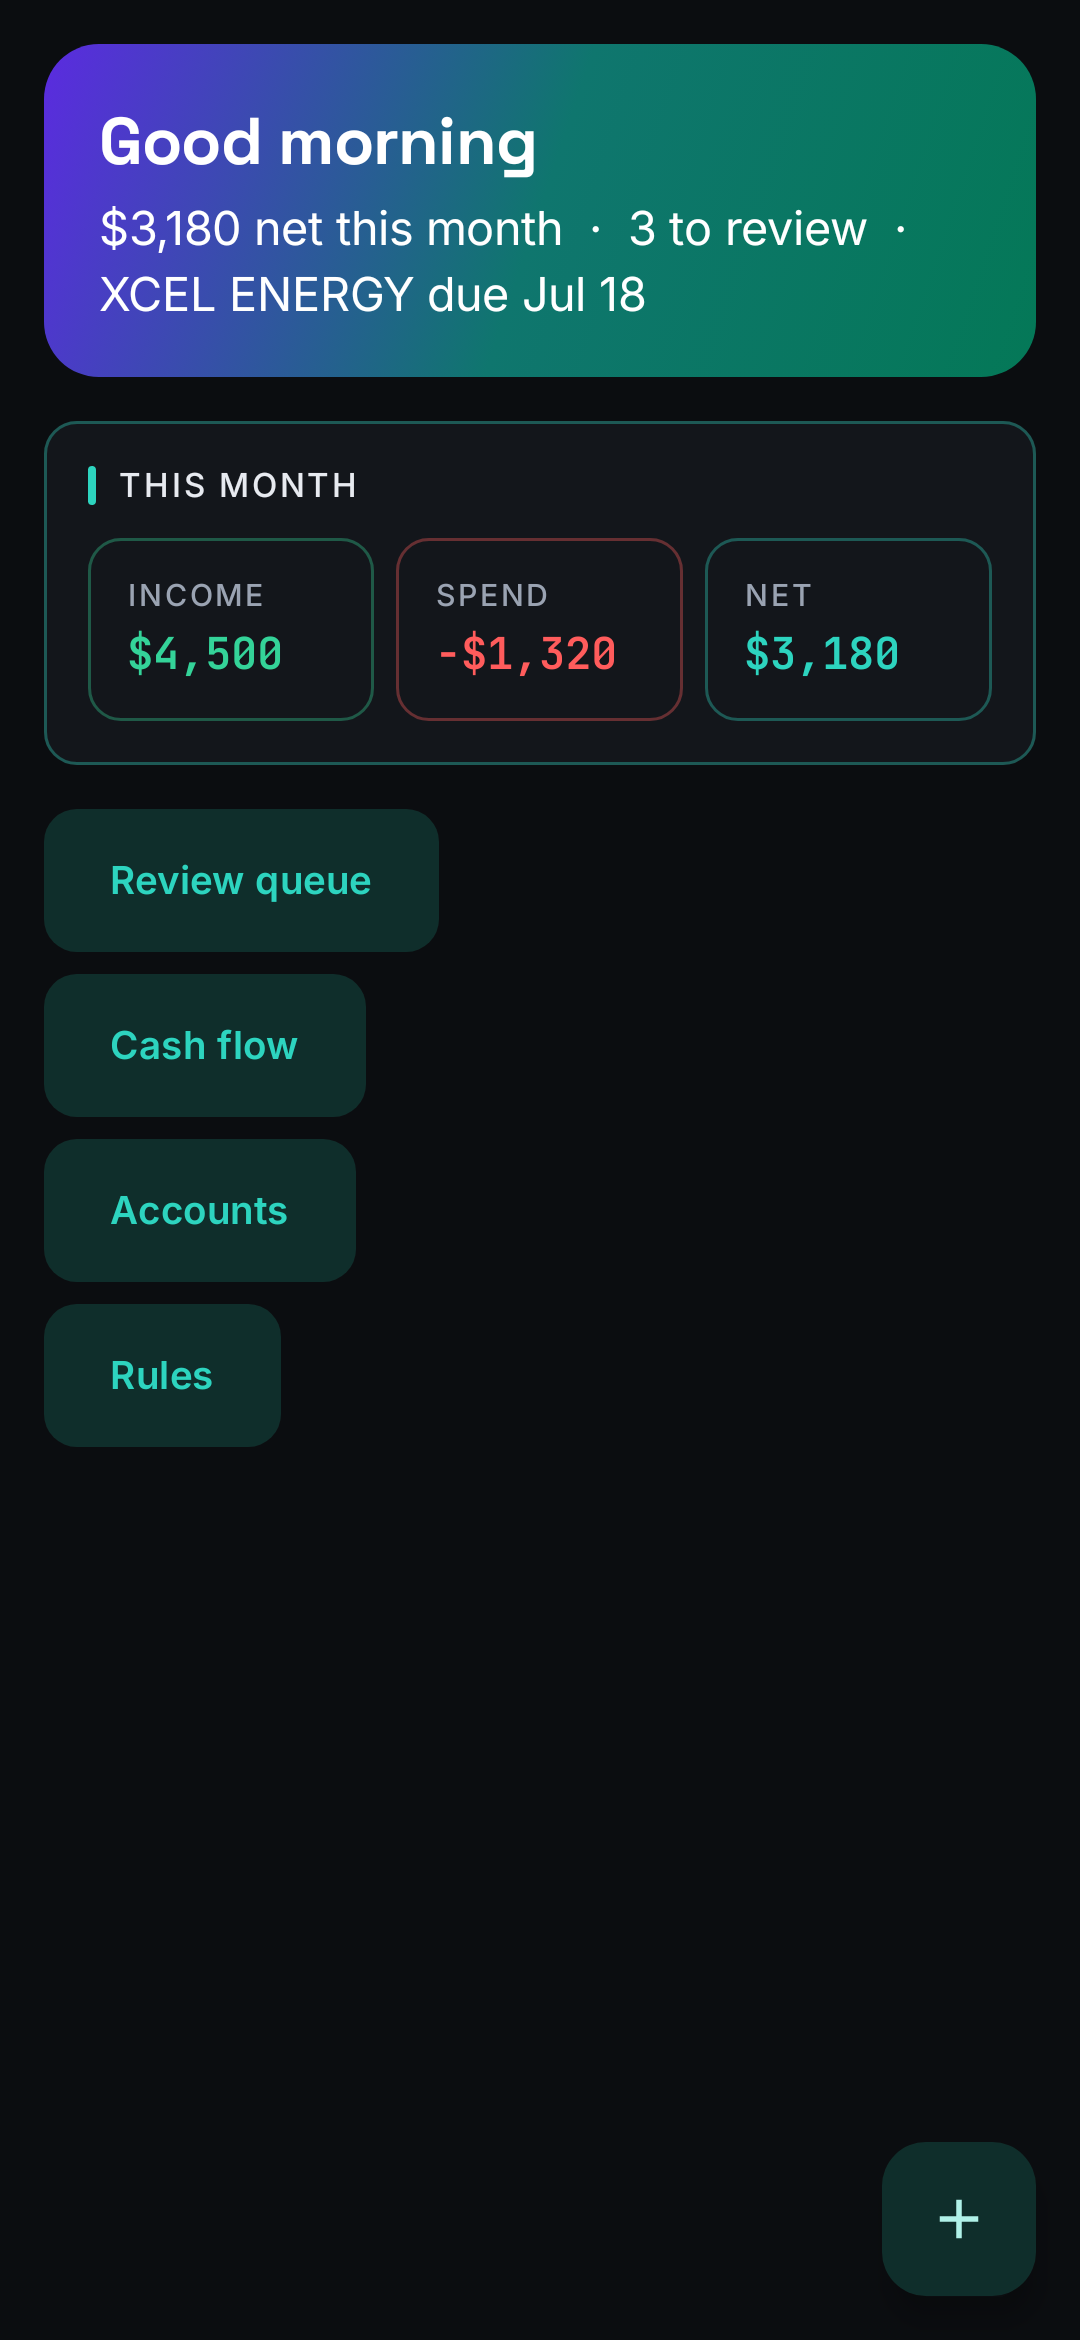
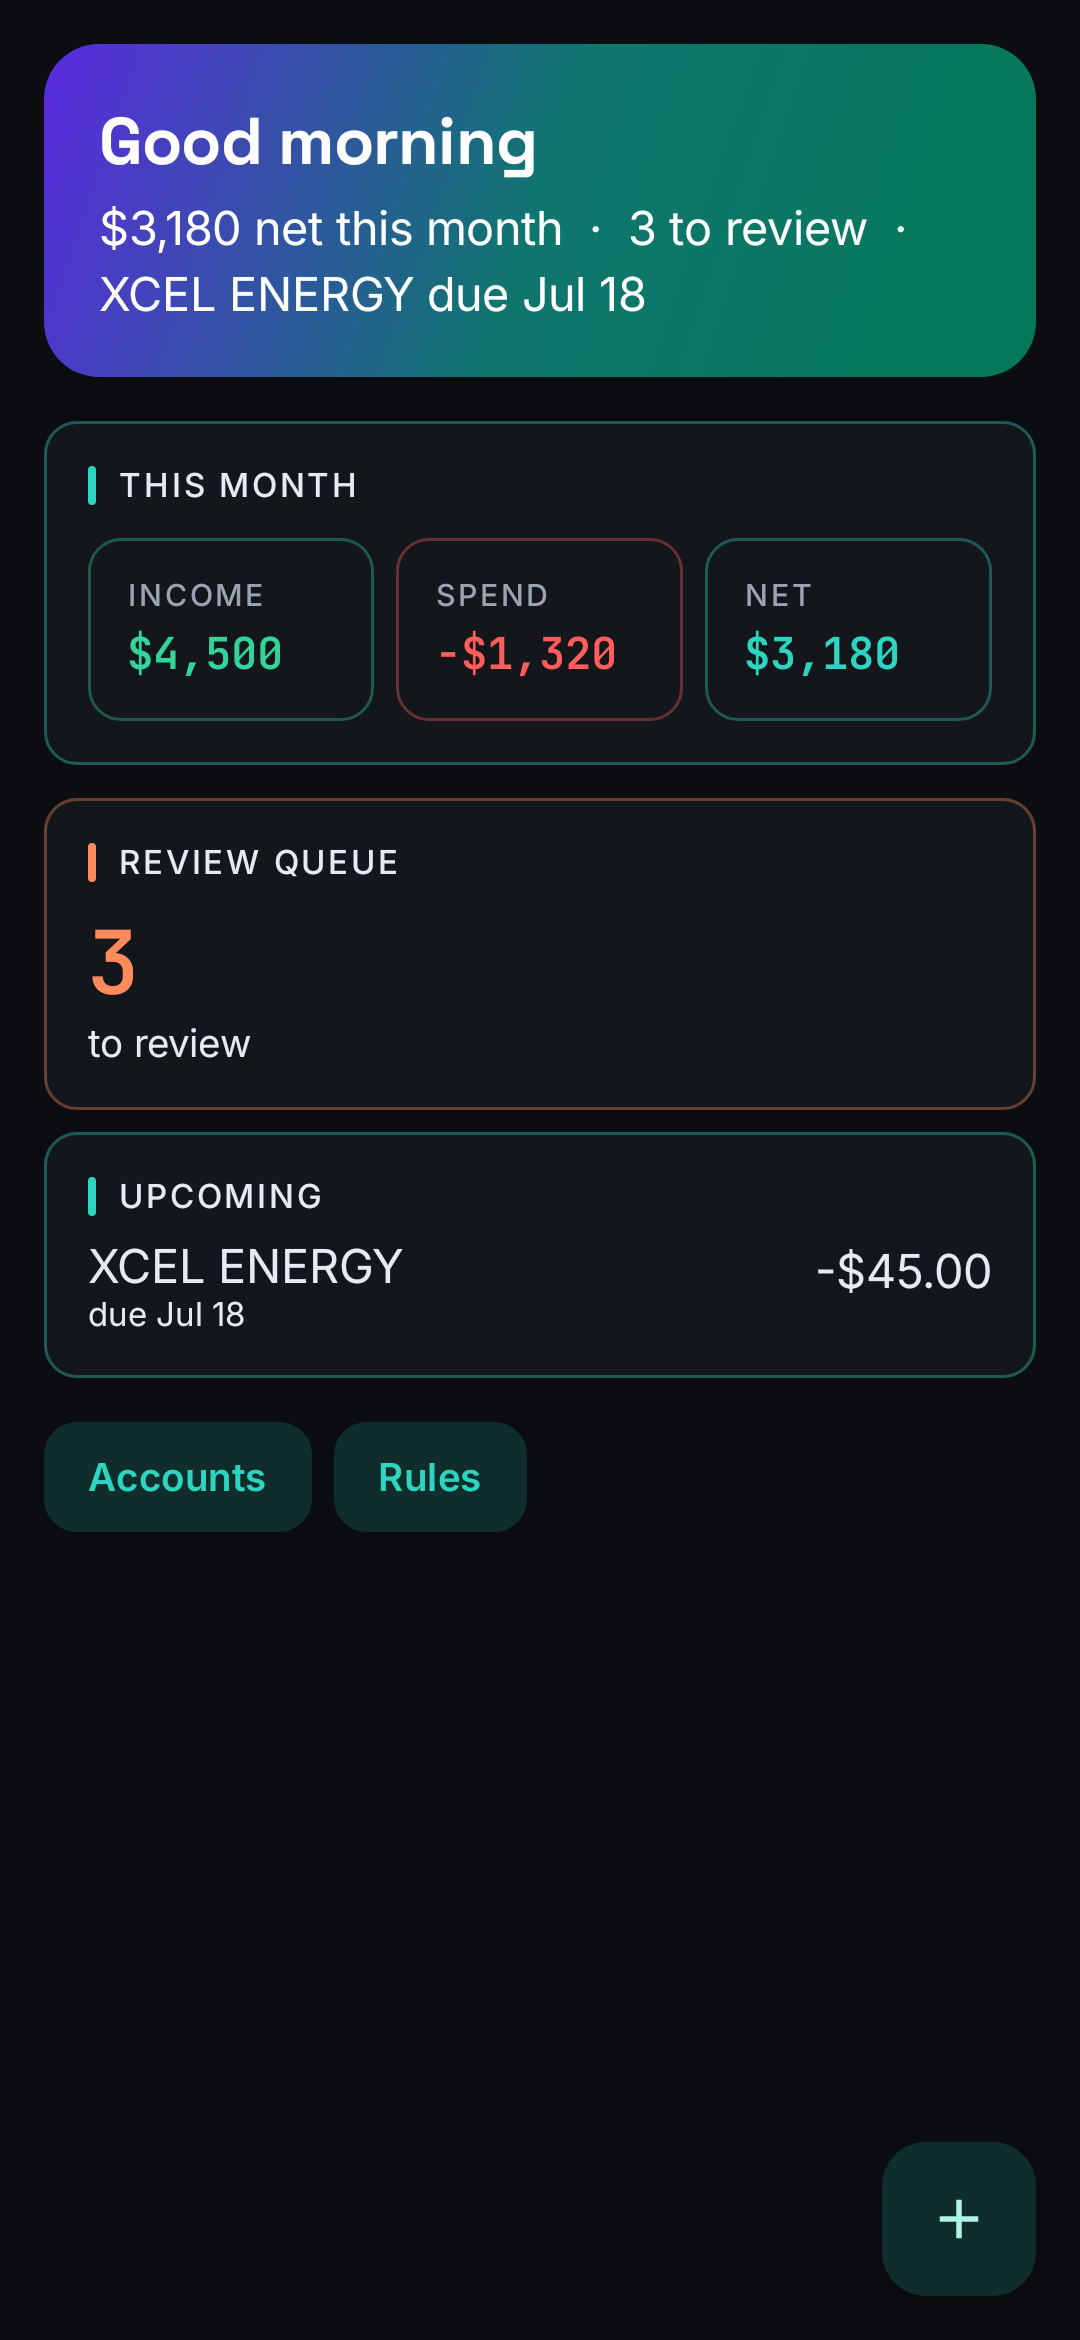
Tier 4 #29: Home becomes content, not links
Mirrors Plate's Home content cards. Home's remaining link-buttons are now live
content:
- ReviewQueueCard: the needs-review count as a big amber datum (or "All caught
  up"), tappable to the queue.
- UpcomingBillCard: the soonest bill's biller/amount/due (teal), tappable to
  the cash-flow calendar.
over the month panel + hero. Only the two non-tab utilities (Accounts, Rules)
remain, as compact secondary links. Both are Plate-style tappable PanelCards;
shared formatShortDate helper (deduped from the hero status line).

Home Roborazzi baselines re-recorded + eyeballed. testDebugUnitTest +
assembleDebug green. Docs same-commit (V1.md #29).

Claude-Session: https://claude.ai/code/session_014KjXd8hrEmpDJcuUSqhmB1

Changed region(s): [[0.0306, 0.3432, 0.4889, 0.6551], [0.7639, 0.5303, 0.9167, 0.5615]]

diff --git a/android/app/src/main/java/com/magpie/ui/home/HomeScreen.kt b/android/app/src/main/java/com/magpie/ui/home/HomeScreen.kt
@@ -37,6 +37,7 @@ import androidx.navigation.NavController
 import com.magpie.data.remote.MonthlySummaryOut
 import com.magpie.ui.navigation.Routes
 import com.magpie.ui.theme.MagpieTheme
+import com.magpie.util.formatCents
 import com.magpie.util.formatCentsCompact
 import design.pulse.ui.components.PanelCard
 import design.pulse.ui.components.PulseButton
@@ -100,16 +101,22 @@ internal fun HomeContent(
                 is HomeUiState.Error -> Text(state.message, color = MaterialTheme.colorScheme.error)
                 is HomeUiState.Ready -> {
                     MonthPanel(state.summary)
+                    Spacer(Modifier.height(12.dp))
+                    // Content, not links (#29): the review queue and the next bill are live cards
+                    // showing their own data; only the two non-tab utilities (Accounts, Rules) stay
+                    // as compact secondary links.
+                    ReviewQueueCard(count = state.reviewCount, onClick = onViewReviewQueue)
+                    Spacer(Modifier.height(8.dp))
+                    UpcomingBillCard(bill = state.nextBill, onClick = onViewCashflow)
                     Spacer(Modifier.height(16.dp))
-                    // Only the screens NOT in the bottom bar are linked here (Home/Transactions/
-                    // Bills/Budgets/Settings are tabs now). #29 turns these into live content cards.
-                    PulseButton(text = "Review queue", tonal = true, onClick = onViewReviewQueue)
-                    Spacer(Modifier.height(8.dp))
-                    PulseButton(text = "Cash flow", tonal = true, onClick = onViewCashflow)
-                    Spacer(Modifier.height(8.dp))
-                    PulseButton(text = "Accounts", tonal = true, onClick = onViewAccounts)
-                    Spacer(Modifier.height(8.dp))
-                    PulseButton(text = "Rules", tonal = true, onClick = onViewRules)
+                    Row(horizontalArrangement = Arrangement.spacedBy(8.dp)) {
+                        PulseButton(
+                            text = "Accounts", tonal = true, compact = true, onClick = onViewAccounts,
+                        )
+                        PulseButton(
+                            text = "Rules", tonal = true, compact = true, onClick = onViewRules,
+                        )
+                    }
                 }
             }
         }
@@ -152,13 +159,7 @@ private fun MagpieHero(state: HomeUiState.Ready) {
 private fun heroStatusLine(state: HomeUiState.Ready): String {
     val parts = mutableListOf("${formatCentsCompact(state.summary.netCents)} net this month")
     if (state.reviewCount > 0) parts += "${state.reviewCount} to review"
-    state.nextBill?.let { bill ->
-        val due = runCatching {
-            java.time.LocalDate.parse(bill.dueDate)
-                .format(java.time.format.DateTimeFormatter.ofPattern("MMM d"))
-        }.getOrDefault(bill.dueDate)
-        parts += "${bill.biller} due $due"
-    }
+    state.nextBill?.let { bill -> parts += "${bill.biller} due ${formatShortDate(bill.dueDate)}" }
     return parts.joinToString("  ·  ")
 }
 
@@ -211,6 +212,63 @@ private fun MonthStatTile(
         }
     }
 }
+
+/** Home's review-queue content card (#29) — the count as a live datum, tappable to the queue. */
+@Composable
+private fun ReviewQueueCard(count: Int, onClick: () -> Unit) {
+    val channel =
+        if (count > 0) MagpieTheme.colors.needsReview.base else MagpieTheme.colors.underBudget.base
+    PanelCard(channel = channel, onClick = onClick, modifier = Modifier.fillMaxWidth()) {
+        Column {
+            SectionHeader(label = "Review queue", channel = channel)
+            Spacer(Modifier.height(8.dp))
+            if (count > 0) {
+                Text("$count", style = Pulse.dataType.dataMedium, color = channel)
+                Text("to review", style = MaterialTheme.typography.bodyMedium)
+            } else {
+                Text("All caught up", style = MaterialTheme.typography.bodyLarge)
+            }
+        }
+    }
+}
+
+/** Home's next-bill content card (#29) — the soonest upcoming bill, tappable to the cash-flow calendar. */
+@Composable
+private fun UpcomingBillCard(bill: com.magpie.data.remote.UpcomingBillOut?, onClick: () -> Unit) {
+    val channel = MagpieTheme.colors.money.base
+    PanelCard(channel = channel, onClick = onClick, modifier = Modifier.fillMaxWidth()) {
+        Column(modifier = Modifier.fillMaxWidth()) {
+            SectionHeader(label = "Upcoming", channel = channel)
+            Spacer(Modifier.height(8.dp))
+            if (bill != null) {
+                Row(
+                    modifier = Modifier.fillMaxWidth(),
+                    horizontalArrangement = Arrangement.SpaceBetween,
+                ) {
+                    Column {
+                        Text(bill.biller, style = MaterialTheme.typography.bodyLarge)
+                        Text(
+                            "due ${formatShortDate(bill.dueDate)}",
+                            style = MaterialTheme.typography.bodySmall,
+                        )
+                    }
+                    Text(
+                        formatCents(-bill.amountDueCents),
+                        color = if (bill.isOverdue) MagpieTheme.colors.overBudget.base
+                        else MaterialTheme.colorScheme.onSurface,
+                    )
+                }
+            } else {
+                Text("Nothing due soon", style = MaterialTheme.typography.bodyLarge)
+            }
+        }
+    }
+}
+
+private fun formatShortDate(iso: String): String = runCatching {
+    java.time.LocalDate.parse(iso)
+        .format(java.time.format.DateTimeFormatter.ofPattern("MMM d"))
+}.getOrDefault(iso)
 
 @Composable
 private fun CreateFirstAccountForm(onCreate: (name: String, institution: String, type: String) -> Unit) {

diff --git a/V1.md b/V1.md
@@ -291,11 +291,14 @@
     review count + soonest upcoming bill (`GET /transactions?review_state=needs_review`,
     `GET /cashflow`) for the line. Home Roborazzi baselines re-recorded + eyeballed. (The button list
     below the hero is still there until #27 bottom nav + #29 content land.)
-29. **Home becomes content, not links.** Replace the four nav buttons with the things
-    themselves: review-queue preview card (top 2 rows + count → the queue), next-bills
-    strip, month panel with budget-vs-actual. FAB stays cash entry. (Plate shows the
-    calorie ring and an inline weight chart; Spotter shows today's workout with a Start
-    button — Magpie shows four buttons.)
+29. ~~**Home becomes content, not links.**~~ **DONE 2026-07-09 (mirrors Plate's Home cards).**
+    Home's link-buttons are now live content: `ReviewQueueCard` (the count as a big amber datum →
+    tap to the queue) + `UpcomingBillCard` (the soonest bill's biller/amount/due, teal → tap to the
+    cash-flow calendar), over the month panel + hero; only the two non-tab utilities (Accounts,
+    Rules) remain as compact secondary links. FAB stays cash entry. Both cards are Plate-style
+    tappable `PanelCard`s. Home Roborazzi baselines re-recorded + eyeballed. (Fuller previews — top
+    review rows, a multi-bill strip — can grow later; the count + next-bill are the load-bearing
+    signals.)
 30. ~~**Fix the StatTile money wrapping.**~~ **DONE 2026-07-08 (local, no Pulse change).** The
     standard `StatTile` renders its value in Pulse's large `dataMedium`, which wrapped even `$0.00`
     across three lines in a 1/3-width column. Fixed locally in Magpie's `MonthPanel`: switched to